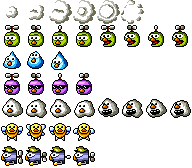
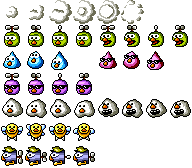
Multiple enemy generators

Changed region(s): [[0.5, 0.2976, 0.875, 0.4167]]

diff --git a/src/game/enemygen.ts b/src/game/enemygen.ts
@@ -8,20 +8,27 @@
 class EnemyGenerator {
 
 
+    private timers : Array<number>;
+    private lastIndices : Array<number>;
     private enemies : Array<Enemy>;
     private shootCB : (pos : Vector2, speed: Vector2, power : number) => any;
-
-    // TODO: Moar timers?
-    private enemyTimer : number;
 
 
     constructor(shootCB? : 
         (pos : Vector2, speed: Vector2, power : number) => any) {
 
+        const TIMER_COUNT = 3;
+
         this.enemies = new Array<Enemy> ();
         this.shootCB = shootCB;
 
-        this.enemyTimer = 120;
+        this.timers = new Array<number> (TIMER_COUNT);
+        this.lastIndices = new Array<number> (TIMER_COUNT);
+        for (let i = 0; i < this.timers.length; ++ i) {
+
+            this.timers[i] = 60.0 + i*30.0;
+            this.lastIndices[i] = -1;
+        }
     }
 
 
@@ -84,7 +91,7 @@ class EnemyGenerator {
 
             this.getNextEnemy().spawn(
                 new Vector2(x + i*BODY_OFF, y),
-                EnemyType.Slime,
+                flip ? EnemyType.FleeingSlime : EnemyType.Slime,
                 [jumpWait, 
                  JUMP_MIN + Math.random()*JUMP_VARY, 
                 initialWait, 1.0, 
@@ -234,20 +241,32 @@ class EnemyGenerator {
 
 
     // Spawn an enemy
-    private spawnEnemy() : number {
+    private spawnEnemy(index : number) : number {
+
+        const MAX = 5;
 
         let count = 1 + Math.floor(Math.random()*4);
 
-        let type = (Math.random() * 5) | 0;
+        let type = (Math.random() * MAX) | 0;
+        if (type == this.lastIndices[index]) {
 
+            type = (type + 1) % MAX;
+        }
+        this.lastIndices[index] = type;
+
+        let flip = Math.random() <= 0.5;
+        
         switch(type) {
         
         case EnemyType.Fly:
-            this.spawnFlies(count, Math.random() <= 0.5);
+            this.spawnFlies(count, flip);
             break;
 
         case EnemyType.Slime:
-            this.spawnSlimes(count, count == 1);
+
+            if (flip) count = 1;
+
+            this.spawnSlimes(count, flip);
             break;
 
         case EnemyType.Cloud:
@@ -298,6 +317,24 @@ class EnemyGenerator {
     }
 
 
+    // Update timers
+    public updateTimers(ev : CoreEvent) {
+
+        const WAIT_TIME_MIN = 30;
+        const WAIT_MOD = 45;
+
+        for (let i = 0; i < this.timers.length; ++ i) {
+
+            // Update timer
+            if ((this.timers[i] -= ev.step) <= 0.0) {
+
+                this.timers[i] += WAIT_TIME_MIN +
+                    this.spawnEnemy(i) * WAIT_MOD;
+            }
+        }
+    }
+
+
     // Update
     public update(bullets : Array<Bullet>, 
         text : Array<FlyingText>, 
@@ -305,15 +342,8 @@ class EnemyGenerator {
         lstate : LocalState,
         ev : CoreEvent) {
 
-        const WAIT_TIME_MIN = 30;
-        const WAIT_MOD = 45;
-
         // Update timer
-        if ((this.enemyTimer -= ev.step) <= 0.0) {
-
-            this.enemyTimer += WAIT_TIME_MIN +
-                this.spawnEnemy() * WAIT_MOD;
-        }
+        this.updateTimers(ev);
 
         // Update enemies
         let dmg : number;

diff --git a/src/game/game.ts b/src/game/game.ts
@@ -13,6 +13,8 @@ class GameScene implements Scene {
     private hud : HUDRenderer;
     private objm : ObjectManager;
 
+    private paused : boolean;
+
 
     constructor() {
 
@@ -28,6 +30,8 @@ class GameScene implements Scene {
         this.hud = new HUDRenderer(this.lstate);
         
         this.objm = new ObjectManager(this.lstate);
+
+        this.paused = false;
     }
 
 
@@ -36,6 +40,16 @@ class GameScene implements Scene {
         // This gives the unit speed for the
         // middle point of the ground
         const BACKGROUND_SPEED = 1.0 / 1.40;
+
+        if (ev.gamepad.getButtonState("start") == State.Pressed) {
+
+            this.paused = !this.paused;
+        }
+
+        if (this.paused) {
+
+            return;
+        }
 
         // Update stage
         this.stage.update(BACKGROUND_SPEED, ev);
@@ -65,6 +79,15 @@ class GameScene implements Scene {
 
         // Draw HUD
         this.hud.draw(c);
+
+        if (this.paused) {
+
+            c.setColor(0, 0, 0, 0.5);
+            c.fillRect(0, 0, 256, 192);
+
+            c.drawText(c.getBitmap("font"), "GAME PAUSED",
+                c.width/2, c.height/2 - 4, 0, 0, true);
+        }
     }
 
 

diff --git a/src/game/enemy.ts b/src/game/enemy.ts
@@ -12,6 +12,7 @@ enum EnemyType {
     Kamikaze = 4,
 
     FleeingFly = -1,
+    FleeingSlime = -2,
 }
 
 
@@ -59,6 +60,7 @@ class EnemyRenderer extends RenderComponent {
     private animSpeed : number;
     private speedMod : number;
     private shootTimer : number;
+
 
     constructor(base : EntityBase) {
 
@@ -246,13 +248,16 @@ class Enemy extends Entity {
 
                 break;
 
+            
+            case EnemyType.FleeingSlime:
             case EnemyType.Slime:
     
                 this.ai = new SlimeAI(this.base, this.rendRef, 
                     params, shootCB);
 
                 this.rendRef = new SlimeRenderer(this.base);
-                this.rendRef.reset(1)
+                this.rendRef.reset(1, 
+                    index == EnemyType.FleeingSlime ? 4 : 0);
 
                 this.rendRef.shadowSize = new Vector2(
                     24, 6

diff --git a/src/game/enemylogic.ts b/src/game/enemylogic.ts
@@ -283,18 +283,28 @@ class CircleMovement extends MovementLogic {
 class SlimeRenderer extends EnemyRenderer {
 
 
+    private skip : number;
+
+
+    public reset(row = 0, skip = 0) {
+
+        this.skip = skip;
+        this.spr.setFrame(row+1, skip);
+    }
+
+
     public animate(ev : CoreEvent) {
 
         const EPS = 0.5;
 
-        this.spr.setFrame(this.spr.getRow(), 0);
+        this.spr.setFrame(this.spr.getRow(), this.skip);
         if (this.base.speed.y < -EPS) {
 
-            this.spr.setFrame(this.spr.getRow(), 1);
+            this.spr.setFrame(this.spr.getRow(), this.skip+1);
         }
         else if (this.base.speed.y > EPS) {
 
-            this.spr.setFrame(this.spr.getRow(), 2);
+            this.spr.setFrame(this.spr.getRow(), this.skip+2);
         }
     }   
 

diff --git a/src/game/state.ts b/src/game/state.ts
@@ -55,7 +55,7 @@ class LocalState {
         this.health = this.maxHealth;
         
         this.xp = 0;
-        this.level = 1;
+        this.level = 10;
         this.multiplier = 0;
         this.mulTimer = 0;
         this.power = 0;
@@ -63,7 +63,7 @@ class LocalState {
         this.skillLevels = new Array<number> (8);
         for (let i = 0; i < this.skillLevels.length; ++ i) {
 
-            this.skillLevels[i] = 0; // 5;
+            this.skillLevels[i] = 5;
         }
 
         this.recomputeStats();
@@ -160,7 +160,7 @@ class LocalState {
         if (increaseStar) {
 
             // Just some random number for now
-            this.power += inc / 24000; 
+            this.power += inc / 36000; 
         }
     }
 
